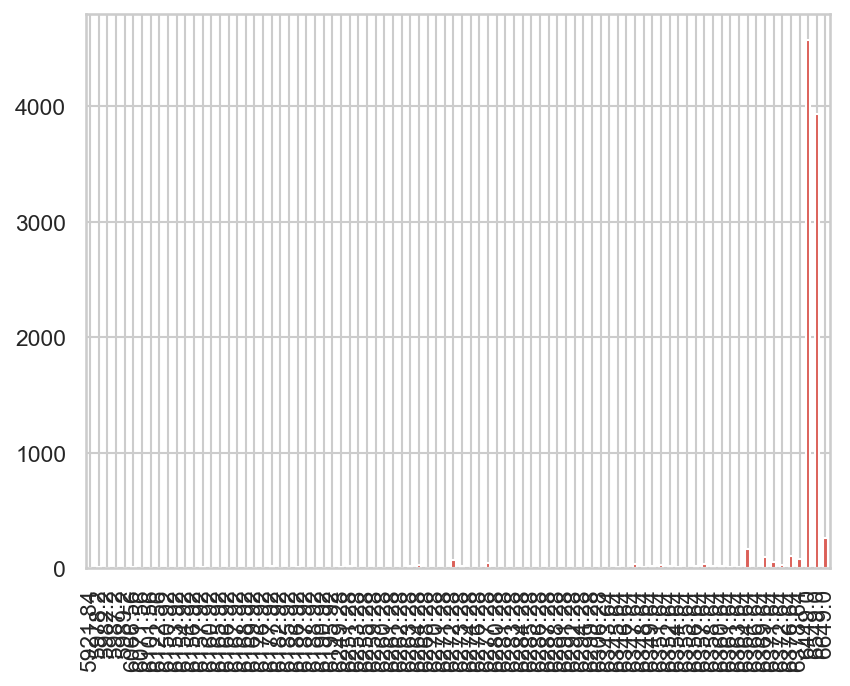
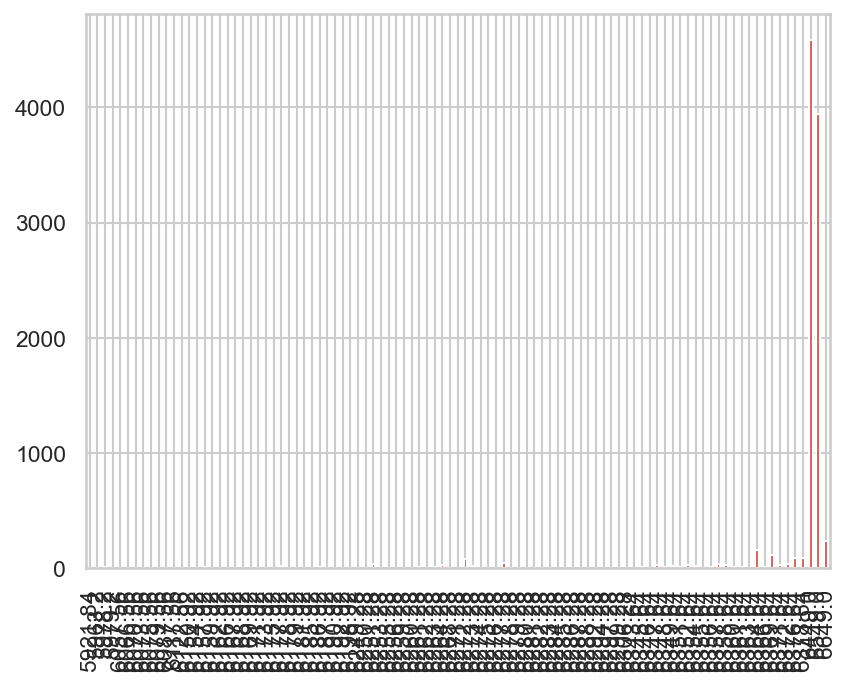
Experiment uitgevoerd

diff --git a/main_experiment.py b/main_experiment.py
@@ -51,7 +51,7 @@ def main():
                 best_experiment[score] = experiment
 
     # write the best scores into a text file
-    with open(PATH / "data" / "experiment" / "best_scores.txt", "w") as file:
+    with open(PATH / "data" / "experiment" / "best_scores_high.txt", "w") as file:
         for key, value in best_scores.items():
             file.write(f"{key}: {value} / {best_experiment[score]}\n")
 
@@ -61,10 +61,10 @@ def get_all_combinations():
     Returns the combination of all parameters in the experiment
     """
 
-    temperature = [1, 10, 20, 100, 1000, 10000, 100000]
-    max_algorithm_iterations = [10, 20, 30, 50, 100]
-    sa_iterations = [1, 10, 100]
-    ts_iterations = [10, 100, 1000]
+    temperature = [100000]
+    max_algorithm_iterations = [100000]
+    sa_iterations = [1]
+    ts_iterations = [10000]
 
     all_combinations = list(itertools.product(*[temperature, max_algorithm_iterations, sa_iterations, ts_iterations]))
 
@@ -86,7 +86,7 @@ def experiments(temperature, max_algorithm_iterations, sa_iterations, ts_iterati
         max_score[f"{datasheet} SA max_score"] = simulated_annealing_score(sa_iterations, max_algorithm_iterations, temperature, datasheet, experiment)
         sa_time_end = time.time()
 
-        simulated_annealing_score_ot(sa_iterations, temperature, datasheet, experiment)
+        simulated_annealing_score_ot(max_algorithm_iterations, temperature, datasheet, experiment)
 
         # calculate the traveling salesman algorithm
         ts_time_begin = time.time()
